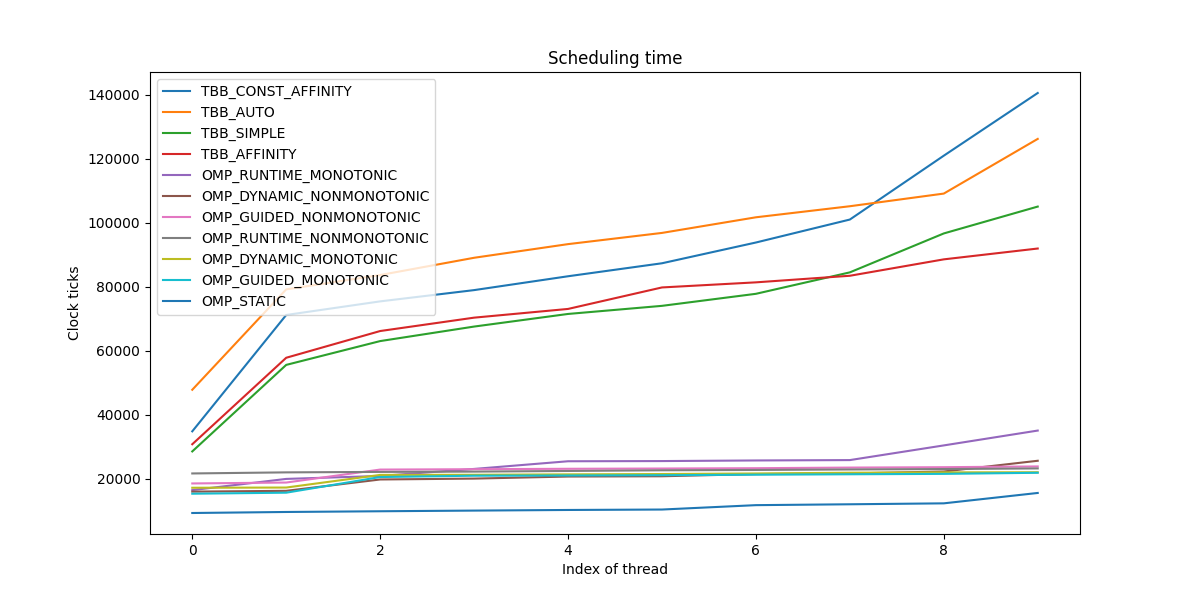
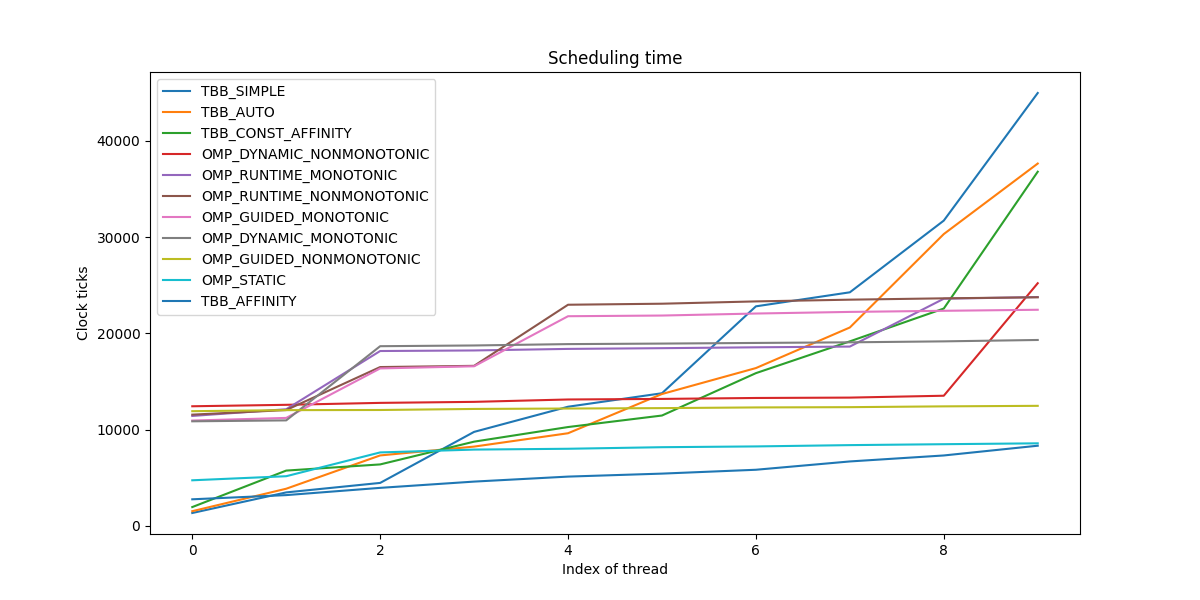
some fixes

diff --git a/scheduling_time/bench_scheduling.cpp b/scheduling_time/bench_scheduling.cpp
@@ -19,50 +19,35 @@ static thread_local TimeLogger timeLogger;
 static std::vector<uint64_t> RunWithBarrier(size_t threadNum) {
   auto start = Now();
   std::atomic<size_t> reported(0);
-  std::vector<uint64_t> times;
+  std::vector<uint64_t> times(threadNum);
   times.reserve(threadNum);
-  SpinLock timeslock;
   ParallelFor(0, threadNum, [&](size_t i) {
-    auto resultTime = Now() - start;
-    {
-      // lock is aquired after time measurement
-      // so we are not afraid of performance loss
-      std::lock_guard<SpinLock> lock(timeslock);
-      times.push_back(resultTime);
-    }
+    times[i] = Now() - start;
     reported.fetch_add(1);
     // it's ok to block here because we want
     // to measure time of all threadNum threads
     while (reported.load() != threadNum) {
-      std::this_thread::sleep_for(std::chrono::milliseconds(1));
+      // std::this_thread::sleep_for(std::chrono::milliseconds(1));
+      std::this_thread::yield();
     }
   });
-  std::lock_guard<SpinLock> lock(timeslock);
   return times;
 }
 
-static std::vector<uint64_t> RunWithSleep(size_t threadNum) {
+static std::vector<uint64_t> RunWithSpin(size_t threadNum) {
   auto start = Now();
-  std::vector<uint64_t> times;
-  times.reserve(threadNum);
-  SpinLock timeslock;
+  std::vector<uint64_t> times(threadNum);
   ParallelFor(0, threadNum, [&](size_t i) {
-    auto resultTime = Now() - start;
-    {
-      // lock is aquired after time measurement
-      // so we are not afraid of performance loss
-      std::lock_guard<SpinLock> lock(timeslock);
-      times.push_back(resultTime);
-    }
-    // spin 1 seconds without sleep
+    times[i] = Now() - start;
+    // spin 1 seconds
     auto spinStart = std::chrono::steady_clock::now();
     while (std::chrono::steady_clock::now() - spinStart <
            std::chrono::seconds(1)) {
       std::this_thread::sleep_for(std::chrono::milliseconds(1));
+      // std::this_thread::yield();
     }
     // TODO: kmp block time here? maybe spin 1 second without sleep?
   });
-  std::lock_guard<SpinLock> lock(timeslock);
   return times;
 }
 
@@ -74,28 +59,34 @@ static std::vector<uint64_t> RunMultitask(size_t threadNum) {
   ParallelFor(0, tasksNum, [&](size_t i) {
     timeLogger.ReportTime(Now() - start);
     // sleep for emulating work
-    std::this_thread::sleep_for(sleepFor);
+    // std::this_thread::sleep_for(sleepFor);
+    auto spinStart = std::chrono::steady_clock::now();
+    while (std::chrono::steady_clock::now() - spinStart < sleepFor) {
+      // std::this_thread::sleep_for(std::chrono::milliseconds(1));
+      std::this_thread::yield();
+    }
   });
   return TimeLogger::EndEpoch();
 }
 
 static std::vector<uint64_t> RunOnce(size_t threadNum) {
-  // todo: mfence here?
-  /*
-  for arm:
+#ifdef __x86_64__
+  asm volatile("mfence" ::: "memory");
+#endif
+#ifdef __aarch64__
   asm volatile(
-        "DMB SY \n"  Data Memory Barrier. Full runtime operation.
-        "DSB SY \n"  Data Synchronization Barrier. Full runtime operation.
-        "ISB    \n"  Instruction Synchronization Barrier.
-        ::: "memory"
-        );
-  */
+      "DMB SY \n" /* Data Memory Barrier. Full runtime operation. */
+      "DSB SY \n" /* Data Synchronization Barrier. Full runtime operation. */
+      "ISB    \n" /* Instruction Synchronization Barrier. */
+      ::
+          : "memory");
+#endif
 
 #if SCHEDULING_MEASURE_MODE == BARRIER
   return RunWithBarrier(threadNum);
 #endif
 #if SCHEDULING_MEASURE_MODE == SLEEP
-  return RunWithSleep(threadNum);
+  return RunWithSpin(threadNum);
 #endif
 #if SCHEDULING_MEASURE_MODE == MULTITASK
   return RunMultitask(threadNum);

diff --git a/include/time_logger.h b/include/time_logger.h
@@ -8,7 +8,8 @@
 inline uint64_t Now() {
 #ifdef __x86_64__
   return __rdtsc();
-#elif __arm__
+#endif
+#ifdef __aarch64__
   uint64_t val;
   asm volatile("mrs %0, cntvct_el0" : "=r"(val));
   return val;
